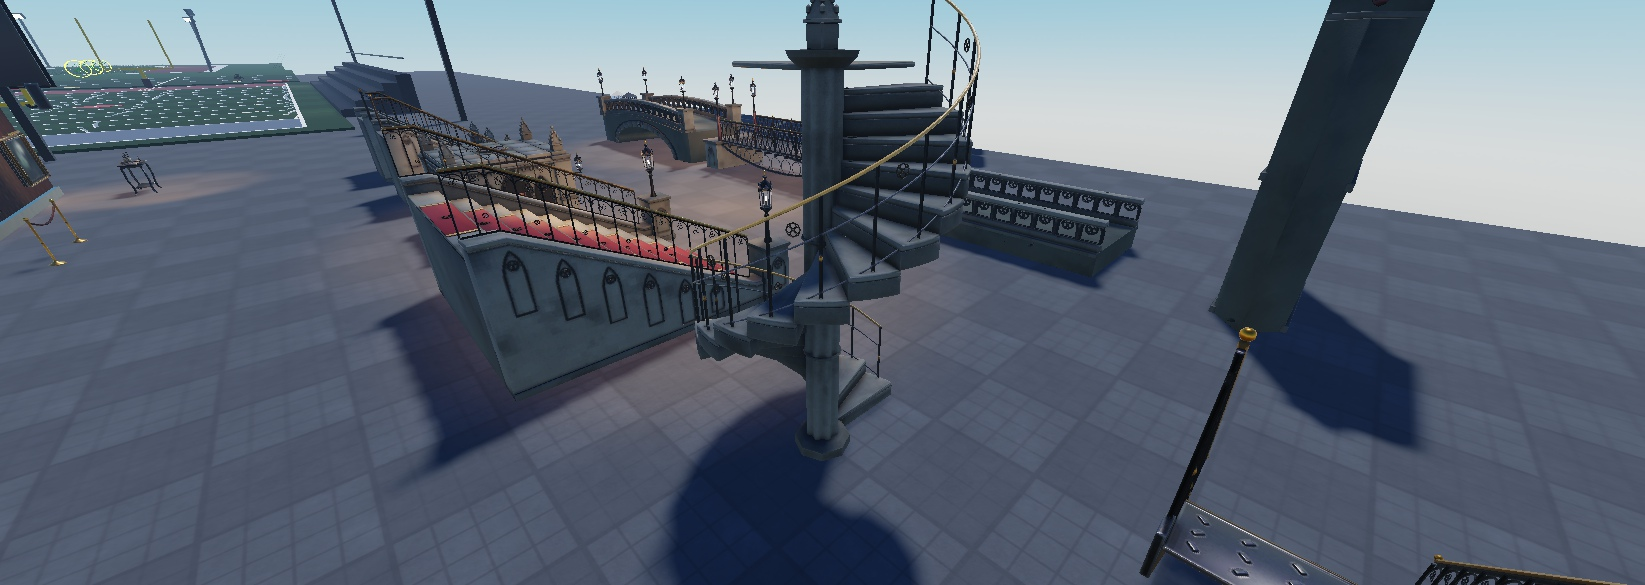
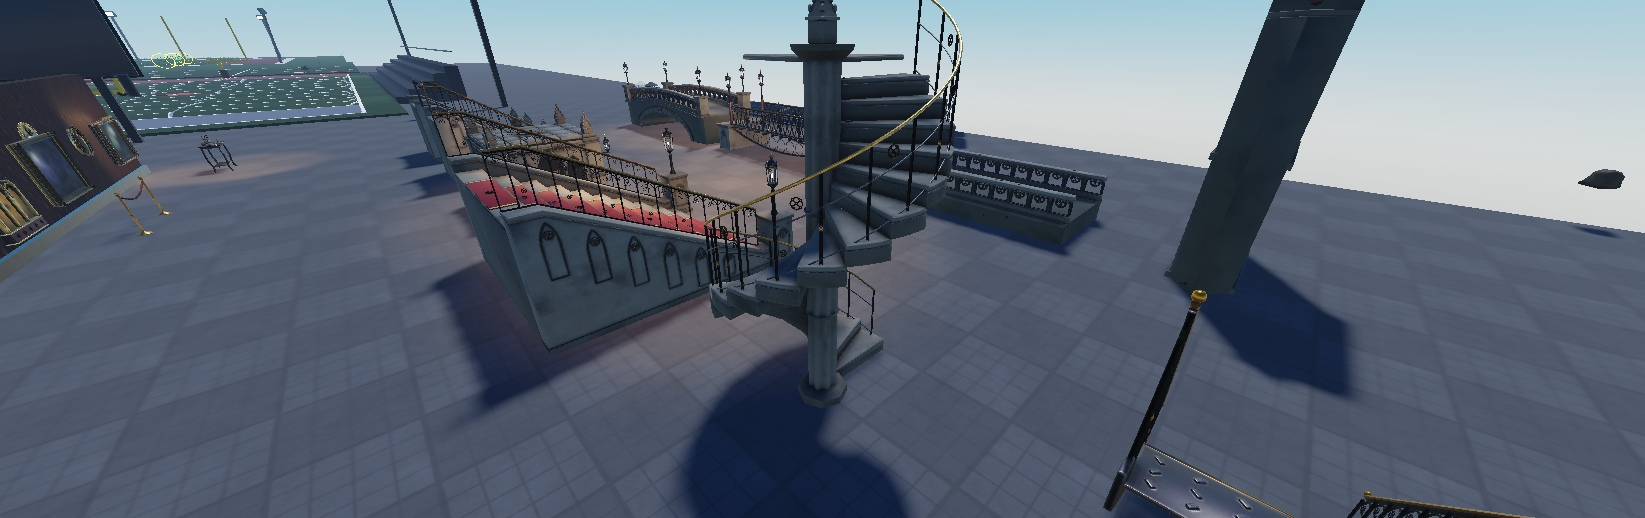
1.38.2: the spiral stair's re-uploaded metalness map
- StairSpiral uses the group's new StairSpiral_metal image (119049869824909); all four maps render.

diff --git a/docs/School-Props.md b/docs/School-Props.md
@@ -339,7 +339,7 @@ Door, flap and tap origins sit on their hinge lines.
 | StairStoneRailed | 26.4k (Main, Rail) | batch 20: the same flight with the gothic cast-iron balustrade and brass handrail, iron newels at the head |
 | StairLanding | 33.8k (Main, Faces, Floor, Lamps, Glow, Glass) | batch 20: a 7.6 x 7.6 landing 6 high: buttresses into crocketed pinnacles, traceried lancet panels with a large crest, an arched corbel table, flagstones round a crimson and gilt quatrefoil medallion, two gas lanterns |
 | StairGrand | 39.7k (Main, Runner, Rail, Glow, Glass) | batch 20: the 12-wide grand stair: a crimson runner with gilt borders and quatrefoils on brass rods, carved cheeks, the balustrade, crested newel pedestals with gas lanterns |
-| StairSpiral | 14.5k (Main, Rail) | batch 20: a tower stair: a clustered newel, 20 wedge treads making a turn 12 high, a head landing, an iron rail with gilt roundels (1.38.1: colour, normal and roughness maps only; its metalness map needs a re-upload) |
+| StairSpiral | 14.5k (Main, Rail) | batch 20: a tower stair: a clustered newel, 20 wedge treads making a turn 12 high, a head landing, an iron rail with gilt roundels (1.38.2: metalness map re-uploaded as 119049869824909) |
 | StairIron | 25.4k (Main, Rail) | batch 20: an open cast-iron stair: chequer-plate treads with brass nosings, stringers pierced with quatrefoils, the balustrade |
 | BridgeStoneArch | 43.5k (Wall, Main, ParapetL, ParapetR, Piers, Glow, Glass) | batch 20: a 24-long humped stone footbridge: dark voussoirs, a crested keystone, a hood moulding, pierced gothic parapets, crested end piers with lanterns |
 | BridgeIron | 37.3k (Main, Girders, Glow, Glass) | batch 20: a 24-long cast-iron footbridge: crimson lattice girders with gilt bosses and spear finials, arched ribs with ring spandrels, carved abutments, lanterns |

diff --git a/CHANGELOG.md b/CHANGELOG.md
@@ -2,6 +2,16 @@
 
 All notable changes to the NH Combat Test dev place. The newest entries come first.
 
+## [1.38.2] - 2026-11-04: The spiral stair's metalness map is back
+
+### Fixed
+- **StairSpiral has all four maps again.** Its metalness map was re-uploaded under the group as image 119049869824909 (inside Decal 100237983277999). The stair's SurfaceAppearances, `art/props/props.json` and the batch 20 setup script now use it. The old id (136349045257712) is gone from all of them.
+  - A second import of the same file (Decal 70594753429054, image 116789412772878) isn't used.
+
+### Verified (Studio Edit)
+- With all four maps, the spiral rendered its stone, iron balusters and a metallic brass handrail within 10 seconds (screenshot `docs/img/stair-spiral-fixed.jpg`).
+- **Not checked:** Play or a live server.
+
 ## [1.38.1] - 2026-11-04: The spiral stair's texture
 
 ### Fixed

diff --git a/updates/discord/game-updates/2026-11-04-spiral-stair-fix.md b/updates/discord/game-updates/2026-11-04-spiral-stair-fix.md
@@ -1,5 +1,6 @@
-# Spiral stair fix (1.38.1)
+# Spiral stair fix (1.38.1, 1.38.2)
 
 **Nightmare Highschool dev update, 2026-11-04**
 
 - **The spiral stair has its stone back.** It was showing up plain white in the showcase. Now it has grey stone, dark iron balusters and a brass handrail like the rest of the stair kit.
+- **And its handrail shines again.** The brass and iron are metallic like the rest of the kit.
